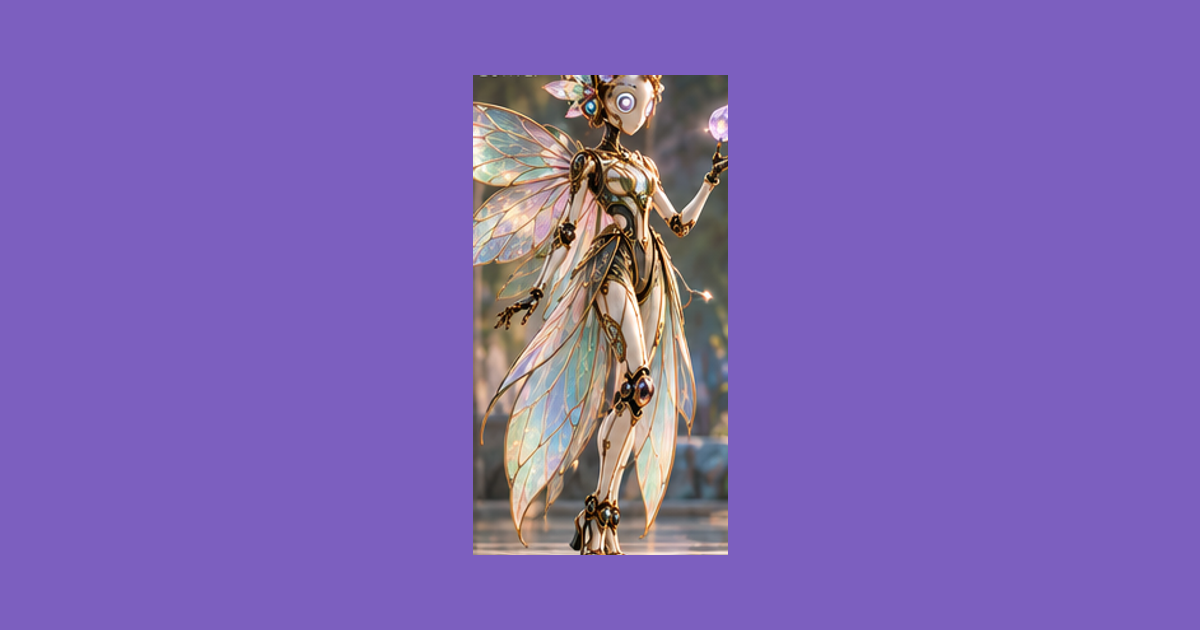
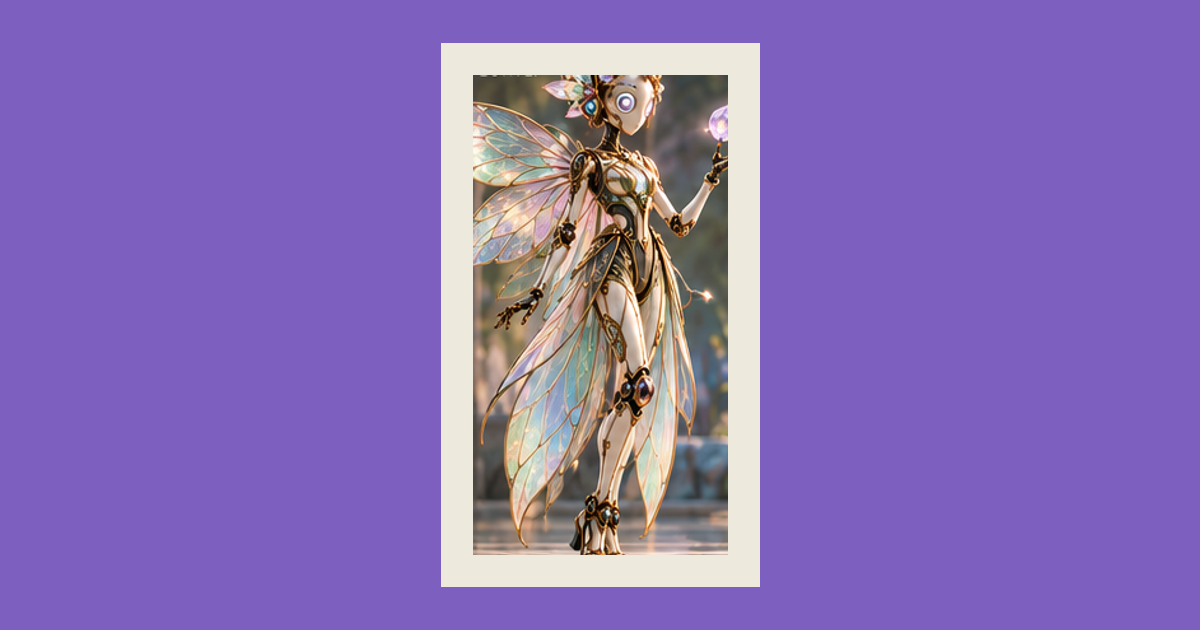
Refine Task 9 per review: OG bone mount, non-self-referential profile link
- scripts/build-og.mjs: composite per-character portraits onto a bone
  (#EDE9DD) mount panel before placing them on the colour field, matching
  CharacterBand's own specimen-plate treatment instead of leaving the
  portrait's backdrop floating bare on the field. Also corrects the
  resize comment to state that withoutEnlargement: false does allow
  upscaling small sources, matching CharacterBand's own behaviour.
- CharacterBand.astro: add explicit showProfileLink prop (default true)
  so the "Read the full profile" chip can be hidden; character pages now
  pass showProfileLink={false} to avoid a self-referential, misleadingly
  labelled link on their own page.
- tests/character-pages.test.ts: assert each character page does not
  link to its own profile, and the landing page links to all eight.

Changed region(s): [[0.37, 0.0603, 0.6475, 0.9349]]

diff --git a/tests/character-pages.test.ts b/tests/character-pages.test.ts
@@ -42,6 +42,20 @@ describe('character pages', () => {
     const html = readFileSync(`dist/characters/${slug}/index.html`, 'utf8');
     expect(html).toMatch(new RegExp(`<meta property="og:image" content="[^"]*/og/${slug}\\.png"`));
   });
+
+  it.each(SLUGS)('%s page does not link to its own profile', (slug) => {
+    const html = readFileSync(`dist/characters/${slug}/index.html`, 'utf8');
+    expect(html).not.toContain(`href="/characters/${slug}/"`);
+  });
+});
+
+describe('landing page profile links', () => {
+  it('links to all eight character profiles', () => {
+    const html = readFileSync('dist/index.html', 'utf8');
+    for (const slug of SLUGS) {
+      expect(html).toContain(`href="/characters/${slug}/"`);
+    }
+  });
 });
 
 describe('character OG cards', () => {
